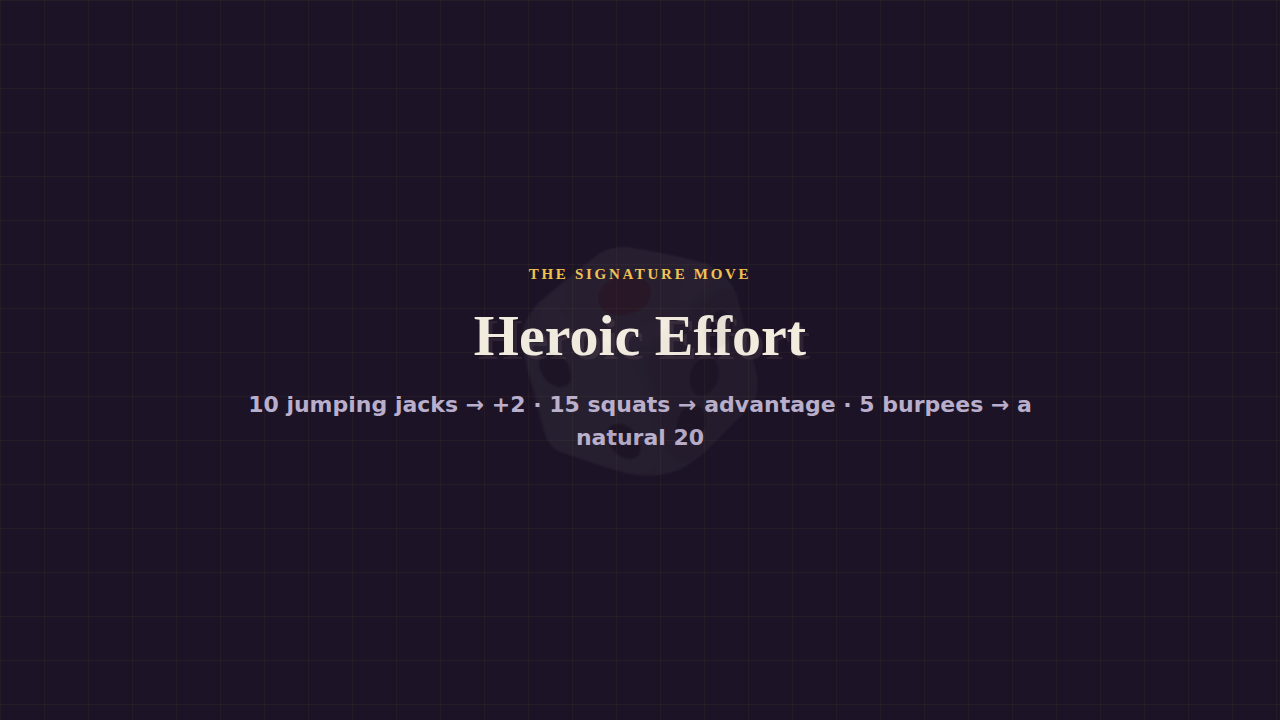
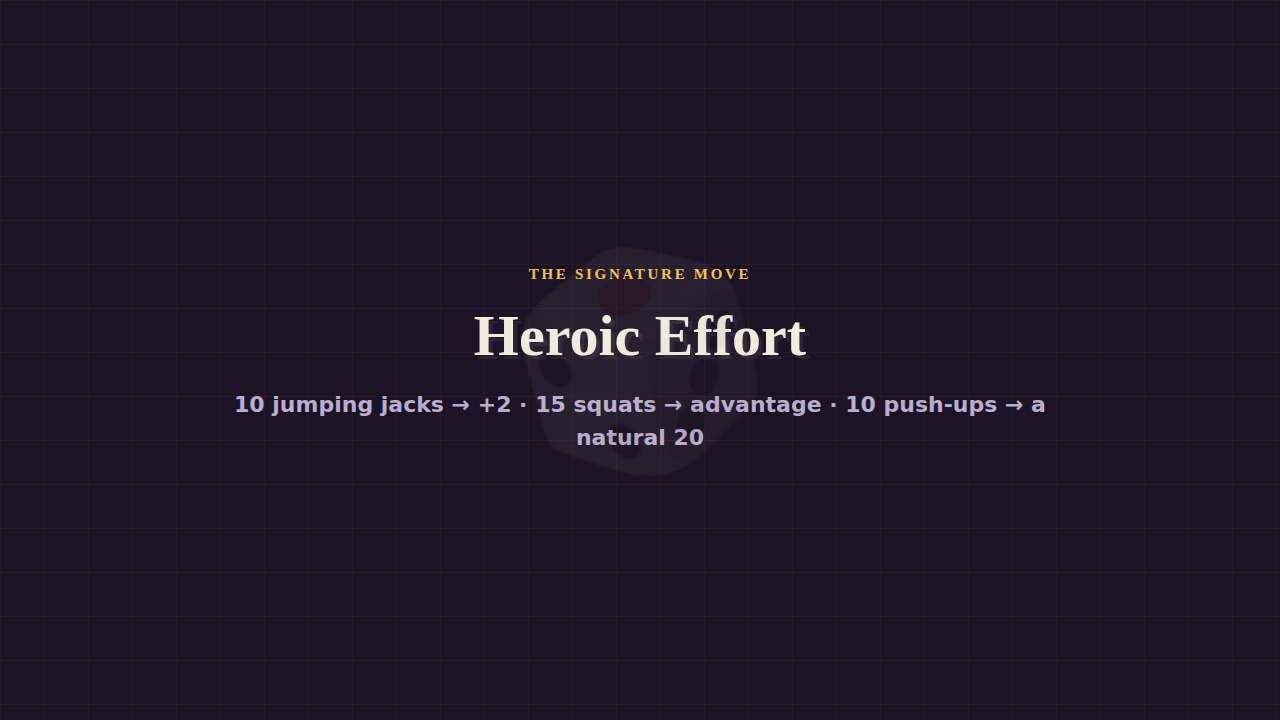
Polish pass: intro gate, starter prompts, mobile, a11y, cleaner agent log
- #intro gate explains the table and doubles as the audio-unlock gesture
- starter prompt chips so a judge never faces a blank box
- mobile layout fixes (verified at 390px: no header overlap, no h-overflow)
- human-readable DM error copy that points at the manual DM Panel
- a11y: focus-visible rings, prefers-reduced-motion (CSS + board.js CALM),
  aria-live on the story log
- agent log now shows one row per tool call, updated in place, instead of a
  duplicate row for every state change
- test harnesses dismiss the intro gate; smoke.mjs no longer lets the /speak
  TTS route clobber the captured tool list

44/44 smoke assertions pass.

Claude-Session: https://claude.ai/code/session_01RLXJ8BFEtj1YUszQzRvfuD

Changed region(s): [[0.1875, 0.55, 0.8125, 0.5806]]

diff --git a/css/style.css b/css/style.css
@@ -229,3 +229,72 @@ input[type=checkbox]{flex:0;width:18px;height:18px}
   #side{width:auto;border-left:0;border-top:var(--outline)}
   .tabpane{max-height:40vh}
 }
+
+/* ── first run ────────────────────────────────────────────────────────────── */
+.intro-backdrop{
+  position:fixed;inset:0;z-index:80;display:flex;align-items:center;justify-content:center;
+  background:radial-gradient(circle at 50% 40%, rgba(60,40,80,.55), rgba(12,8,18,.95) 70%);
+  padding:20px;overflow-y:auto;
+}
+.intro-card{
+  background:var(--paper);color:var(--ink);border:4px solid var(--ink);border-radius:20px;
+  box-shadow:0 12px 0 rgba(0,0,0,.5);padding:30px 34px;max-width:620px;width:100%;
+  animation:pop .22s ease-out;
+}
+.intro-eyebrow{font:800 12.5px "Baloo 2",cursive;letter-spacing:.16em;text-transform:uppercase;color:#8A3A12}
+.intro-title{font:800 46px/1.05 "Baloo 2",cursive;margin:6px 0 10px;text-shadow:3px 3px 0 rgba(46,34,51,.18)}
+.intro-lede{font-size:17px;line-height:1.5;color:#4A4050;margin:0 0 16px}
+.intro-points{list-style:none;padding:0;margin:0 0 22px;display:flex;flex-direction:column;gap:11px}
+.intro-points li{font-size:14.5px;line-height:1.45;color:#4A4050;border-left:4px solid var(--gold);padding-left:11px}
+.intro-points b{color:var(--ink)}
+.intro-points code{background:#E7DCC4;border-radius:5px;padding:1px 5px;font:600 12.5px ui-monospace,monospace}
+.intro-card .btn.big{width:100%;font-size:19px;padding:14px}
+.intro-quiet{display:flex;align-items:center;justify-content:center;gap:7px;margin-top:12px;font-size:13px;color:#6B5E76;cursor:pointer}
+.intro-quiet input{width:15px;height:15px;flex:0}
+
+/* starter prompts — a judge should never face a blank box */
+#starters{display:flex;flex-wrap:wrap;gap:6px;padding:0 10px 8px}
+.starter{
+  background:var(--panel-2);color:var(--muted);border:2px solid var(--ink);border-radius:999px;
+  padding:5px 11px;font-size:12.5px;font-weight:700;cursor:pointer;
+}
+.starter:hover{background:var(--gold);color:var(--ink)}
+
+/* ── phone ────────────────────────────────────────────────────────────────── */
+@media (max-width: 560px){
+  #topbar{gap:10px;padding:8px 10px;flex-wrap:nowrap}
+  .brand{font-size:17px}
+  .brand b{display:none}                 /* the die alone carries it at this size */
+  .scene{min-width:0}
+  #scene-title{font-size:14.5px;white-space:nowrap;overflow:hidden;text-overflow:ellipsis}
+  #scene-mood{display:none}              /* flavour loses to legibility on a phone */
+  .badge{font-size:10.5px;padding:4px 8px;white-space:nowrap}
+  .badge .hint{display:none}
+  #board-wrap{height:38vh;padding:8px}
+  .tabpane{max-height:34vh}
+  .tab{font-size:12.5px;padding:7px 2px}
+  #say-row{padding:8px}
+  #say-row input{font-size:16px}         /* <16px makes iOS zoom on focus */
+  #agent-section{max-height:110px}
+  .intro-card{padding:22px 20px}
+  .intro-title{font-size:34px}
+  .intro-lede{font-size:15px}
+  .intro-points li{font-size:13.5px}
+}
+
+/* ── accessibility ────────────────────────────────────────────────────────── */
+:focus-visible{outline:3px solid var(--gold);outline-offset:2px;border-radius:6px}
+.tabpane:focus{outline:none}
+
+/* Respect a stated preference for less motion. The board still reads — the
+   torch stops guttering, tokens stop breathing, nothing pulses or shakes. */
+@media (prefers-reduced-motion: reduce){
+  *,*::before,*::after{
+    animation-duration:.001ms!important;animation-iteration-count:1!important;
+    transition-duration:.001ms!important;scroll-behavior:auto!important;
+  }
+}
+.sr-only{
+  position:absolute;width:1px;height:1px;padding:0;margin:-1px;
+  overflow:hidden;clip:rect(0 0 0 0);white-space:nowrap;border:0;
+}

diff --git a/index.html b/index.html
@@ -21,6 +21,25 @@
 </head>
 <body>
 
+<!-- First run. Browsers block audio until the player interacts, so the DM's
+     opening line would be silent without this — the dismiss click is the
+     gesture that unlocks the voice, and the copy earns the click. -->
+<div id="intro" class="intro-backdrop">
+  <div class="intro-card">
+    <div class="intro-eyebrow">🎲 The WebMCP Challenge</div>
+    <h1 class="intro-title">Arcana Table</h1>
+    <p class="intro-lede">An AI Dungeon Master is already sitting at this table.
+      Tell it what you do — out loud or typed — and it moves the board in front of you.</p>
+    <ul class="intro-points">
+      <li><b>🎤 Say it or type it.</b> Turn on hands-free and never touch the keyboard.</li>
+      <li><b>💪 Heroic Effort.</b> When a roll matters, the DM stakes real exercise against the dice — ten push-ups for a natural 20. Always optional.</li>
+      <li><b>🤖 Watch the Agent Log.</b> The DM has no back door: every move is a WebMCP tool call on <code>document.modelContext</code>, the same surface your own agent would use.</li>
+    </ul>
+    <button id="intro-go" class="btn big">Light the torches →</button>
+    <label class="intro-quiet"><input type="checkbox" id="intro-mute"> Start muted</label>
+  </div>
+</div>
+
 <header id="topbar">
   <div class="brand">🎲 <b>Arcana&nbsp;Table</b></div>
   <div class="scene">
@@ -37,7 +56,7 @@
 
 <main>
   <section id="board-wrap">
-    <canvas id="board"></canvas>
+    <canvas id="board" role="img" aria-label="Battle map. The story log describes everything that happens here."></canvas>
     <div id="approvals"></div>
   </section>
 
@@ -49,7 +68,7 @@
     </nav>
 
     <div id="pane-story" class="tabpane">
-      <div id="story-log"></div>
+      <div id="story-log" role="log" aria-live="polite" aria-relevant="additions" aria-label="Story and dice log"></div>
     </div>
 
     <div id="pane-party" class="tabpane" hidden>
@@ -124,6 +143,7 @@
       <input id="say" placeholder="What do you do?" aria-label="Tell the Dungeon Master what you do" maxlength="400">
       <button id="say-btn" class="btn" type="submit" aria-label="Send">▶</button>
     </form>
+    <div id="starters" aria-label="Suggested opening moves"></div>
     <div id="voice-row">
       <label class="vtoggle"><input type="checkbox" id="hands-free"> 🙌 Hands-free <span class="vhint">(play mid-push-up)</span></label>
       <button id="mute-btn" class="vmute" type="button" aria-label="Mute the DM's voice">🔊</button>
@@ -131,7 +151,7 @@
 
     <div id="agent-section">
       <div class="agent-head">🤖 Agent log <span id="agent-sub"></span></div>
-      <div id="agent-log"></div>
+      <div id="agent-log" role="log" aria-live="off" aria-label="Agent tool calls"></div>
     </div>
   </aside>
 </main>

diff --git a/js/tools.js b/js/tools.js
@@ -48,9 +48,19 @@ export function settleApproval(id, approved, timedOut = false) {
 }
 
 // ── agent log ────────────────────────────────────────────────────────────────
-function logAgent(tool, args, status, note = '') {
-  state.agentLog.push({ t: Date.now(), tool, args, status, note });
+// One row per tool call, updated in place as it moves called → approval → done.
+// (Pushing a row per state change made the log read as if every tool ran twice.)
+function beginAgent(tool, args) {
+  const entry = { t: Date.now(), tool, args, status: 'called', note: '' };
+  state.agentLog.push(entry);
   if (state.agentLog.length > 120) state.agentLog.shift();
+  emit('agentLog');
+  return entry;
+}
+function updateAgent(entry, status, note = '') {
+  if (!entry) return;
+  entry.status = status;
+  entry.note = note;
   emit('agentLog');
 }
 
@@ -197,21 +207,21 @@ function wrap(def) {
     inputSchema: def.inputSchema,
     annotations: def.annotations || { readOnlyHint: false },
     execute: async (input) => {
-      logAgent(def.name, input, 'called');
+      const entry = beginAgent(def.name, input);
       try {
         if (def.approval) {
           const ask = def.approval(input || {});
           if (ask) {
-            logAgent(def.name, input, 'awaiting-approval', ask);
+            updateAgent(entry, 'awaiting-approval', ask);
             const ok = await requestApproval(ask);
-            if (!ok) { logAgent(def.name, input, 'denied'); return { denied: true, note: 'The player declined this action. Respect it and narrate around it.' }; }
+            if (!ok) { updateAgent(entry, 'denied'); return { denied: true, note: 'The player declined this action. Respect it and narrate around it.' }; }
           }
         }
         const result = await def.handler(input || {});
-        logAgent(def.name, input, result?.error ? 'error' : 'ok', result?.error || '');
+        updateAgent(entry, result?.error ? 'error' : 'ok', result?.error || '');
         return result;
       } catch (e) {
-        logAgent(def.name, input, 'error', String(e?.message || e));
+        updateAgent(entry, 'error', String(e?.message || e));
         return { error: String(e?.message || e) };
       }
     },

diff --git a/js/ui.js b/js/ui.js
@@ -6,17 +6,48 @@ import { state, MAPS } from './state.js';
 import * as A from './actions.js';
 import { onChange } from './actions.js';
 import { agentState, pendingApprovals, settleApproval } from './tools.js';
-import { chat, sendToDM } from './dm.js';
-import { voice, startListening, stopListening, toggleHandsFree, shutUp } from './voice.js';
+import { chat, sendToDM, openScene } from './dm.js';
+import { voice, startListening, stopListening, toggleHandsFree, shutUp, unlockAudio } from './voice.js';
 
 const $ = s => document.querySelector(s);
 const esc = s => String(s).replace(/[&<>"]/g, c => ({ '&': '&amp;', '<': '&lt;', '>': '&gt;', '"': '&quot;' }[c]));
+
+const STARTERS = [
+  'Look around and tell me what I see.',
+  'I search the room for anything valuable.',
+  'I draw my sword and advance carefully.',
+];
+
+function bindIntro() {
+  const intro = $('#intro');
+  if (!intro) return;
+  $('#intro-go').onclick = async () => {
+    voice.muted = $('#intro-mute').checked;
+    // This click is the browser's required gesture — spend it on the DM's voice.
+    if (!voice.muted) await unlockAudio();
+    intro.hidden = true;
+    render();
+    openScene();                       // now its first line will actually be heard
+  };
+}
+
+function renderStarters() {
+  const el = $('#starters');
+  const show = !chat.busy && chat.messages.filter(m => m.role === 'user').length === 0;
+  el.hidden = !show;
+  if (!show) { el.innerHTML = ''; return; }
+  if (el.dataset.built) return;
+  el.dataset.built = '1';
+  el.innerHTML = STARTERS.map((t, i) => `<button class="starter" data-i="${i}" type="button">${esc(t)}</button>`).join('');
+  el.querySelectorAll('.starter').forEach(b => b.onclick = () => speakTurn(STARTERS[+b.dataset.i]));
+}
 
 export function initUI() {
   bindTabs();
   bindDMPanel();
   bindChallengeModal();
   bindSay();
+  bindIntro();
   onChange(render);
   render('all');
   state.tokens.filter(t => t.kind === 'pc').forEach(t => A.revealAround(t.x, t.y, 3));
@@ -280,6 +311,7 @@ function render() {
   renderHeader();
   renderLog();
   renderSay();
+  renderStarters();
   renderParty();
   renderAgent();
   renderDice();

diff --git a/js/board.js b/js/board.js
@@ -16,6 +16,9 @@ let lastHp = new Map();
 let lastDiceT = 0;
 let lastFrame = performance.now();
 
+// Someone who asked for less motion should not get a guttering torch.
+const CALM = window.matchMedia?.('(prefers-reduced-motion: reduce)').matches ?? false;
+
 // Deterministic per-cell jitter so stone looks laid, not printed.
 const hash = (x, y) => {
   const n = Math.sin(x * 127.1 + y * 311.7) * 43758.5453;
@@ -159,7 +162,7 @@ function draw(now) {
   const rows = currentMap().rows;
 
   ctx.save();
-  if (fx.shake) {
+  if (fx.shake && !CALM) {
     ctx.translate((Math.random() - 0.5) * fx.shake, (Math.random() - 0.5) * fx.shake);
   }
 
@@ -232,7 +235,7 @@ function draw(now) {
   // what turns a grey grid into a dungeon.
   ctx.save();
   ctx.globalCompositeOperation = 'lighter';
-  const flicker = 1 + Math.sin(now / 170) * 0.045 + Math.sin(now / 61) * 0.025;
+  const flicker = CALM ? 1 : 1 + Math.sin(now / 170) * 0.045 + Math.sin(now / 61) * 0.025;
   const lights = [];
   state.tokens.filter(t => t.kind === 'pc').forEach(t => lights.push({ x: t.x, y: t.y, r: 4.2, c: [255, 184, 98], i: 0.40 }));
   for (let y = 0; y < GRID_H; y++) for (let x = 0; x < GRID_W; x++) {
@@ -308,7 +311,7 @@ function drawToken(t, px, py, now, lifted) {
   const pad = cell * 0.08;
   const isTurn = state.combat.active && state.combat.order[state.combat.turnIndex] === t.id;
   const seed = t.id.charCodeAt(0) + t.id.length;
-  const bob = t.hp === 0 ? 0 : Math.sin(now / 700 + seed) * cell * 0.022;
+  const bob = (CALM || t.hp === 0) ? 0 : Math.sin(now / 700 + seed) * cell * 0.022;
 
   ctx.fillStyle = 'rgba(0,0,0,.42)';
   ctx.beginPath();
@@ -316,7 +319,7 @@ function drawToken(t, px, py, now, lifted) {
   ctx.fill();
 
   if (isTurn) {
-    const pulse = 2.5 * Math.sin(now / 220);
+    const pulse = CALM ? 0 : 2.5 * Math.sin(now / 220);
     ctx.save();
     ctx.shadowColor = '#F2C14E'; ctx.shadowBlur = 16;
     ctx.strokeStyle = '#F2C14E'; ctx.lineWidth = 4;

diff --git a/js/dm.js b/js/dm.js
@@ -168,11 +168,25 @@ export async function sendToDM(playerText, { silent = false } = {}) {
     }
   } catch (e) {
     chat.error = String(e.message || e);
-    chat.messages.push({ role: 'system', text: `⚠ ${chat.error}`, t: Date.now() });
+    chat.messages.push({ role: 'system', text: humanError(chat.error), t: Date.now() });
   } finally {
     chat.busy = false;
     emit('chat');
   }
+}
+
+// A judge who hits a network hiccup should still know what to do next.
+function humanError(raw) {
+  const e = String(raw);
+  if (/Failed to fetch|NetworkError|502|Could not reach/i.test(e))
+    return '⚠ Cannot reach the Dungeon Master right now. The table still works — open the 🎩 DM Panel to roll, narrate and fight by hand.';
+  if (/429|too many|busy/i.test(e))
+    return '⚠ The table is busy — too many requests just now. Give it a minute, or keep playing from the 🎩 DM Panel.';
+  if (/credit|quota|billing/i.test(e))
+    return '⚠ The DM has run out of credit. Everything else still works — the 🎩 DM Panel runs the whole game by hand.';
+  if (/not configured|503/i.test(e))
+    return '⚠ The DM is not configured on this deployment. The 🎩 DM Panel still runs the table.';
+  return `⚠ ${e} — the 🎩 DM Panel still runs the table.`;
 }
 
 function boardBrief() {

diff --git a/js/voice.js b/js/voice.js
@@ -200,6 +200,19 @@ function browserSpeak(text) {
   });
 }
 
+/** Browsers refuse audio until the player interacts. Call this from a real
+ *  click so the DM's very first line is actually heard. */
+export async function unlockAudio() {
+  try {
+    const a = new Audio();
[1 lines of base64/hex data omitted]
+    a.volume = 0;
+    await a.play();
+    a.pause();
+    return true;
+  } catch { return false; }
+}
+
 export function shutUp() {
   if (audio) { try { audio.pause(); } catch { /* fine */ } }
   try { window.speechSynthesis?.cancel(); } catch { /* fine */ }

diff --git a/js/main.js b/js/main.js
@@ -11,8 +11,9 @@ async function boot() {
 
   // The built-in DM is just another agent: it reads getTools() and calls
   // executeTool(), so it opens the scene through the same public surface.
+  // The opening beat waits for the intro dismissal — otherwise the browser
+  // blocks its audio and the DM's first line is silent.
   watchBoardForPlayerMoves();
-  openScene();
   console.log('%c🎲 Arcana Table ready.', 'font-weight:bold');
   console.log('Agent tools:', window.arcana.tools().join(', '));
   console.log('Try: await arcana.call("roll_dice", {formula:"d20", reason:"perception check"})');
